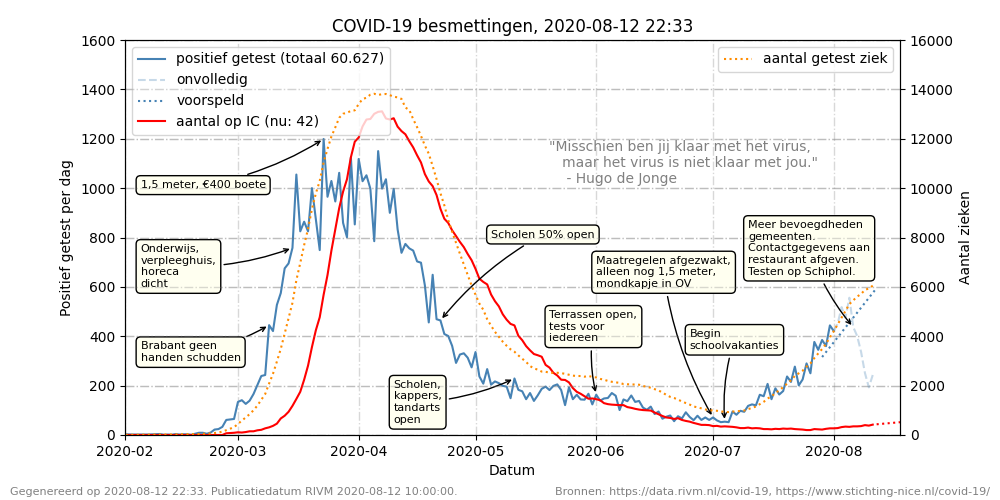
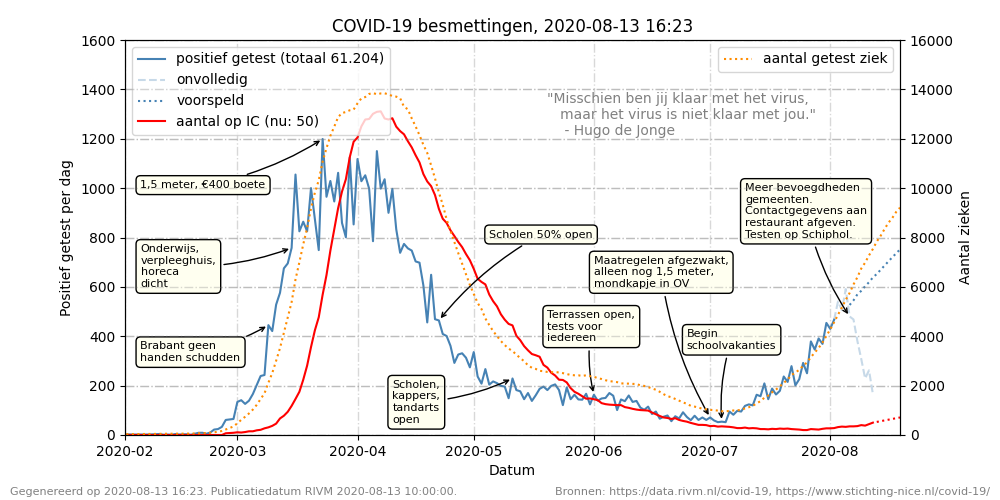
Ran getDailyExcelData

diff --git a/scripts/createGraph.py b/scripts/createGraph.py
@@ -127,25 +127,21 @@ for d in date_range:
     positief_gemiddeld['y'].append(avg)
 
     # ---------------------- Voorspelling positief getst obv gemiddelde richtingscoefficient positief getest.
-    if datum in metenisweten and len(positief['y']) > 2 and parser.parse(datum) < (datetime.datetime.now() - datetime.timedelta(days=7)):
-        rc = positief['y'][-1]-positief['y'][-2]
-    elif len(positief_voorspeld['y']) > 2: 
-        rc = positief_voorspeld['y'][-1]-positief_voorspeld['y'][-2]
-    else :
-        rc = 0
-    
-    try:
-        rc_avg = rc_avg * (positief_voorspeld['avgsize'] - 1) / positief_voorspeld['avgsize'] + rc / positief_voorspeld['avgsize']
-    except NameError:
-        rc_avg = 0
+    if datum in metenisweten and len(positief['y']) > positief_voorspeld['avgsize'] and parser.parse(datum) < (datetime.datetime.now() - datetime.timedelta(days=positief_voorspeld['avgsize'])):
+        # Voorspel morgen op basis van metingen
+        rc = (positief['y'][-1]-positief['y'][-positief_voorspeld['avgsize']]) / positief_voorspeld['avgsize']
+        positief_voorspeld['x'].append(parser.parse(datum) + datetime.timedelta(days=1))
+        positief_voorspeld['y'].append(positief['y'][-1] + rc)
+    elif len(positief_voorspeld['y']) > positief_voorspeld['avgsize']:
+        # Voorspel morgen op basis van schatting gisteren
+        rc = (positief_voorspeld['y'][-1]-positief_voorspeld['y'][-positief_voorspeld['avgsize']]) / positief_voorspeld['avgsize']
+        positief_voorspeld['x'].append(parser.parse(datum) + datetime.timedelta(days=1))
+        positief_voorspeld['y'].append(positief_voorspeld['y'][-1] + rc)
+    else:
+        # If all else fails neem waarde van vorige positief
+        positief_voorspeld['x'].append(parser.parse(datum) + datetime.timedelta(days=1))
+        positief_voorspeld['y'].append(positief['y'][-1])
 
-    try:
-        voorspeld_huidig = voorspeld_huidig + rc_avg
-    except NameError:
-        voorspeld_huidig = 0
-
-    positief_voorspeld['x'].append(parser.parse(datum) - datetime.timedelta(days=positief_voorspeld['avgsize']/2))
-    positief_voorspeld['y'].append(voorspeld_huidig)   
 
     # ---------------------- Voorspelling op IC obv gemiddelde richtingscoefficient positief getest.
     if len(ic['x']) > 10 and parser.parse(datum) > ic['x'][-1]:
@@ -179,10 +175,8 @@ for d in date_range:
     if beterdag in metenisweten:
         nuziek = nuziek - betergeworden
 
-    # --- Ziekte niet verder voorspellen dan de besmetting voorspelling
-    if parser.parse(datum) < (date_range[-1] - datetime.timedelta(days=positief_voorspeld['avgsize']/2)):
-        ziek['x'].append(parser.parse(datum))
-        ziek['y'].append(nuziek)
+    ziek['x'].append(parser.parse(datum))
+    ziek['y'].append(nuziek)
 
 
 def anotate(plt, metenisweten, datum, tekst, x, y):
@@ -226,9 +220,9 @@ anotate(ax1, metenisweten, "2020-07-01",
 anotate(ax1, metenisweten, "2020-07-04",
         'Begin\nschoolvakanties', "2020-06-25", 350)
 anotate(ax1, metenisweten, "2020-08-06",
-        'Meer bevoegdheden\ngemeenten.\nContactgegevens aan\nrestaurant afgeven.\nTesten op Schiphol.', "2020-07-10", 650)
+        'Meer bevoegdheden\ngemeenten.\nContactgegevens aan\nrestaurant afgeven.\nTesten op Schiphol.', "2020-07-10", 800)
 
-ax1.text(parser.parse("2020-05-20"), 1020, "\"Misschien ben jij klaar met het virus,\n   maar het virus is niet klaar met jou.\"\n    - Hugo de Jonge", color="gray")
+ax1.text(parser.parse("2020-05-20"), 1215, "\"Misschien ben jij klaar met het virus,\n   maar het virus is niet klaar met jou.\"\n    - Hugo de Jonge", color="gray")
 
 # Plot average per dag
 # ax1.plot(positief_gemiddeld['x'], positief_gemiddeld['y'], color='cyan', linestyle=':',
